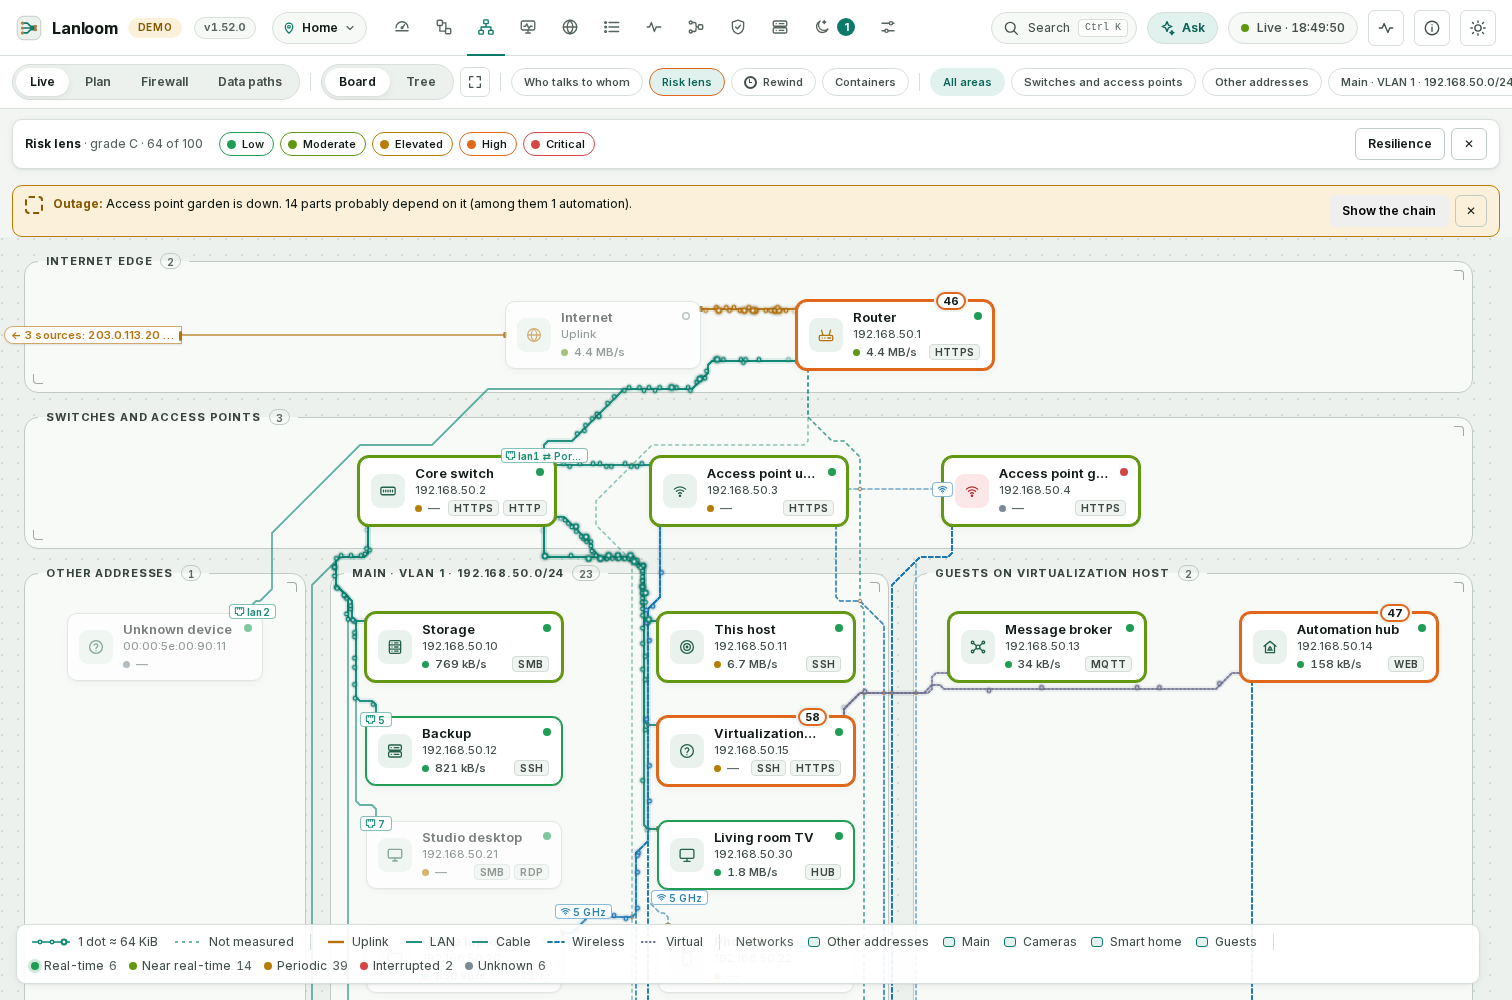
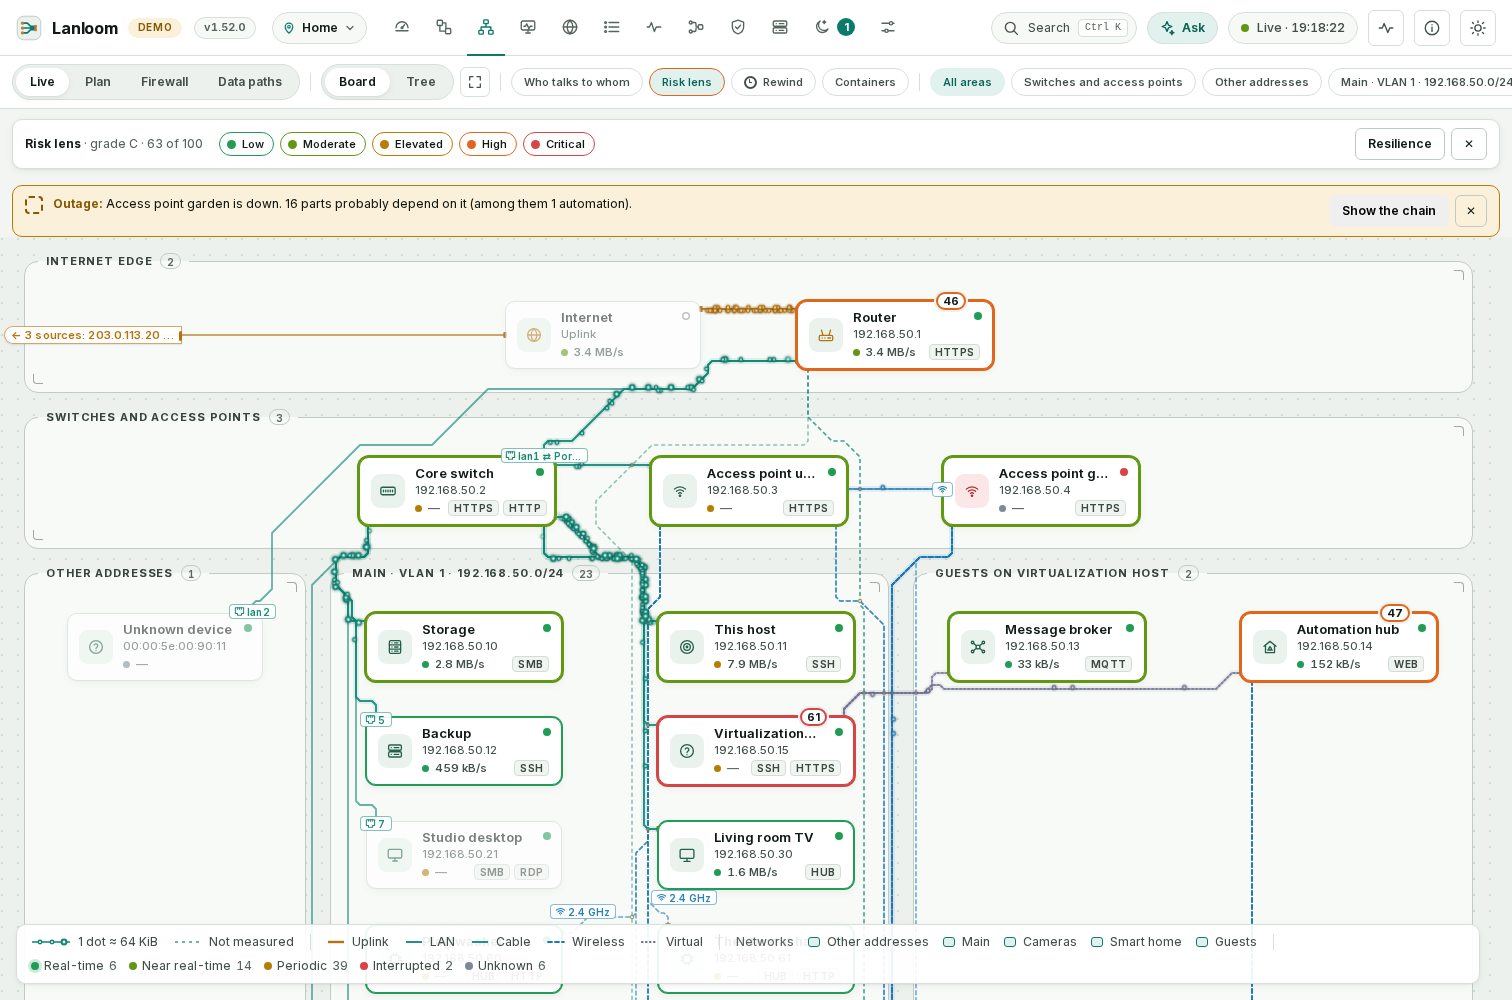
S13: risk lens colours from the design tokens only (no local custom property), scenario cards without parts nothing hangs on, fresh screenshots

diff --git a/lanloom/web/css/board.css b/lanloom/web/css/board.css
@@ -273,18 +273,20 @@
 /* ---------------------------------------------------------------- risk lens (S13)
    A frame in the colour of the risk level (the five steps of the grade scale) and, from "elevated" up, the risk number in a badge
    on the top frame - never colour alone. Under a failure chain the lens rests (the chain explains more). */
-.ll-board.is-lens .ll-tile { --rl: var(--ll-grade-unknown); }
-.ll-board.is-lens .ll-tile.rl-low { --rl: var(--ll-grade-realtime); }
-.ll-board.is-lens .ll-tile.rl-moderate { --rl: var(--ll-grade-near); }
-.ll-board.is-lens .ll-tile.rl-elevated { --rl: var(--ll-grade-periodic); }
-.ll-board.is-lens .ll-tile.rl-high { --rl: var(--ll-grade-sluggish); }
-.ll-board.is-lens .ll-tile.rl-critical { --rl: var(--ll-grade-interrupted); }
-.ll-board.is-lens:not(.is-chain) .ll-tile[class*="rl-"] { border-color: var(--rl); box-shadow: 0 0 0 2px var(--rl), var(--ll-pcb-tile-shadow); }
-.ll-board.is-lens:not(.is-chain) .ll-tile.rl-low { box-shadow: 0 0 0 1px var(--rl), var(--ll-pcb-tile-shadow); }
+.ll-board.is-lens:not(.is-chain) .ll-tile.rl-low { border-color: var(--ll-grade-realtime); box-shadow: 0 0 0 1px var(--ll-grade-realtime), var(--ll-pcb-tile-shadow); }
+.ll-tile.rl-low > .ll-rl-badge { border-color: var(--ll-grade-realtime); }
+.ll-board.is-lens:not(.is-chain) .ll-tile.rl-moderate { border-color: var(--ll-grade-near); box-shadow: 0 0 0 2px var(--ll-grade-near), var(--ll-pcb-tile-shadow); }
+.ll-tile.rl-moderate > .ll-rl-badge { border-color: var(--ll-grade-near); }
+.ll-board.is-lens:not(.is-chain) .ll-tile.rl-elevated { border-color: var(--ll-grade-periodic); box-shadow: 0 0 0 2px var(--ll-grade-periodic), var(--ll-pcb-tile-shadow); }
+.ll-tile.rl-elevated > .ll-rl-badge { border-color: var(--ll-grade-periodic); }
+.ll-board.is-lens:not(.is-chain) .ll-tile.rl-high { border-color: var(--ll-grade-sluggish); box-shadow: 0 0 0 2px var(--ll-grade-sluggish), var(--ll-pcb-tile-shadow); }
+.ll-tile.rl-high > .ll-rl-badge { border-color: var(--ll-grade-sluggish); }
+.ll-board.is-lens:not(.is-chain) .ll-tile.rl-critical { border-color: var(--ll-grade-interrupted); box-shadow: 0 0 0 2px var(--ll-grade-interrupted), var(--ll-pcb-tile-shadow); }
+.ll-tile.rl-critical > .ll-rl-badge { border-color: var(--ll-grade-interrupted); }
 .ll-board.is-lens:not(.is-chain) .ll-tile:not([class*="rl-"]) { opacity: .55; }
 .ll-rl-badge {
   position: absolute; top: -10px; right: 26px; z-index: 3; box-shadow: 0 0 0 2px var(--ll-pcb-board);   /* on the top frame, left of the status light: never over the port marks */
-  min-width: 22px; height: 18px; padding: 0 5px; box-sizing: border-box; border-radius: var(--ll-radius-pill); border: 2px solid var(--rl);
+  min-width: 22px; height: 18px; padding: 0 5px; box-sizing: border-box; border-radius: var(--ll-radius-pill); border: 2px solid var(--ll-grade-unknown);
   background: var(--ll-pcb-tile); color: var(--ll-text); font: var(--ll-fw-bold) 11px/14px var(--ll-font); text-align: center; pointer-events: none;
 }
 .ll-board.is-chain .ll-rl-badge { display: none; }
